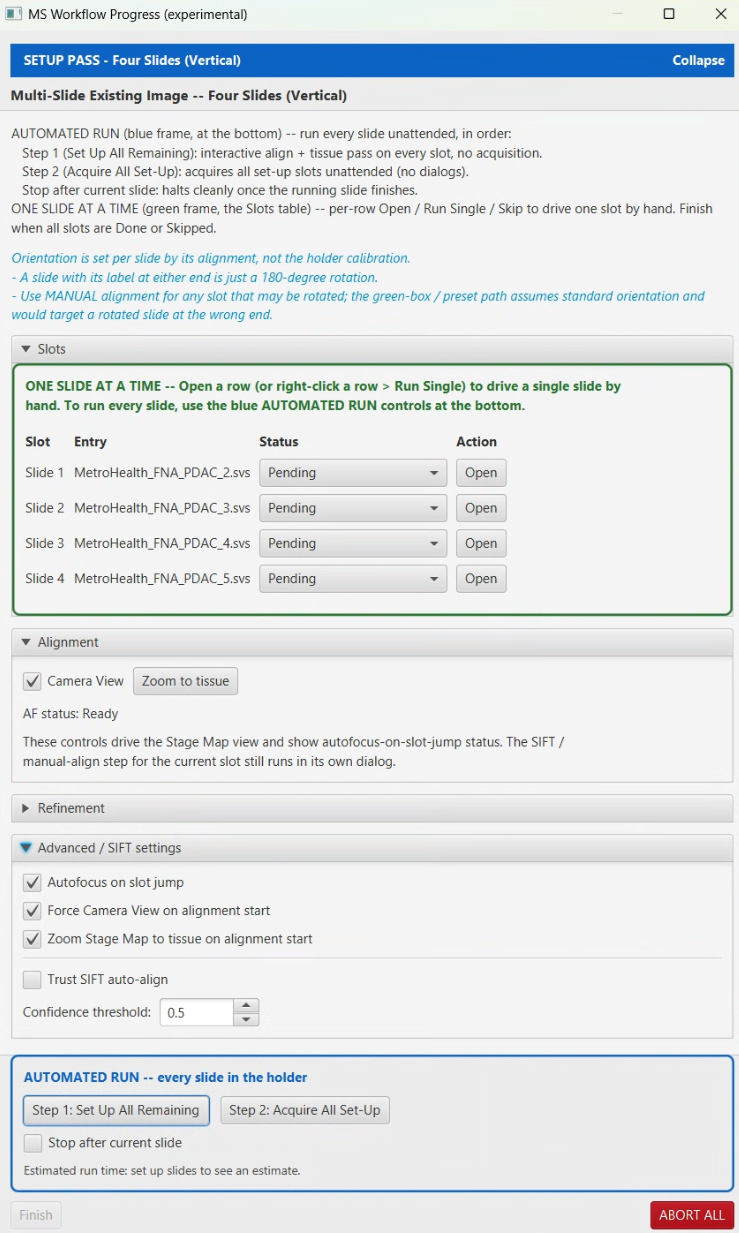
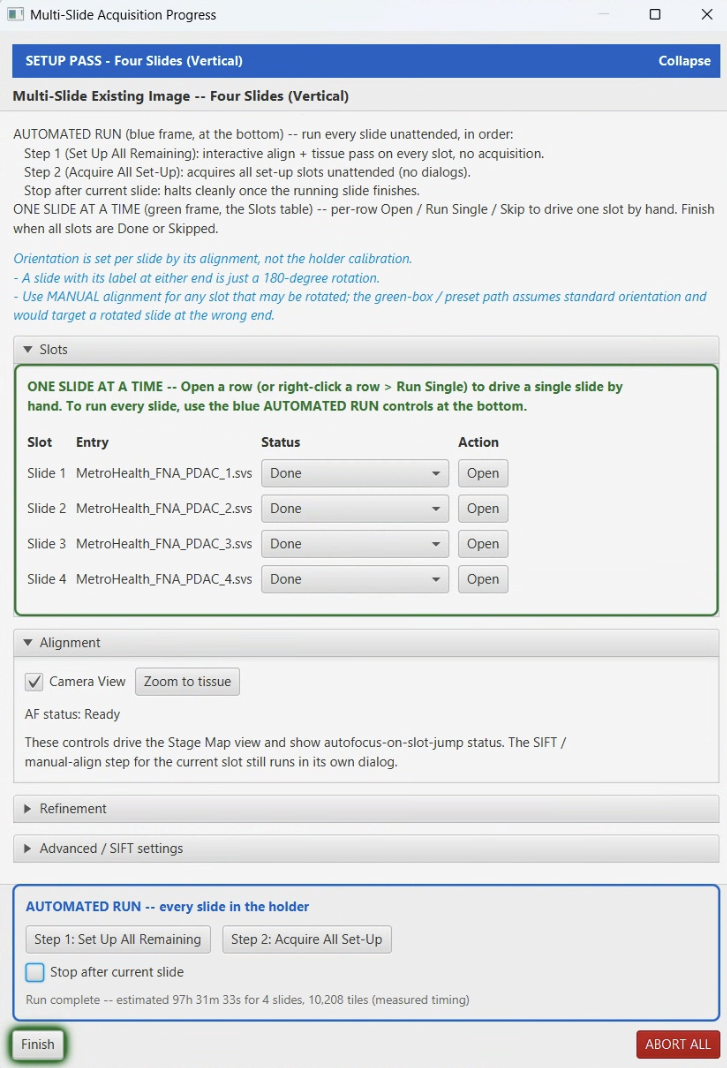
docs(images): add the saturation summary figure, re-capture the batch panel
Docs_SaturationSummary.png was listed as a missing screenshot in the
registry; it now exists, from a real 7-acquisition multi-slide run with 3
flagged samples. Documented in multi-slide-acquisition.md under Finishing,
with how to read it: the run-wide banner, worst-first ordering, and the
distinction the Role column draws -- "Low signal" means saturation on an
image the modality expected to be dim (a real defect), while tiles that are
bright because the modality expects them bright are counted separately in
the collapsed "Expected bright tiles" row. Worst % is verified against the
server: percentage of pixels at or above the dtype-aware saturation
threshold (250 for uint8, 64000 for uint16), worst channel of that tile.

Docs_MultiSlide_BatchPanel.png is re-captured at the end of a run (all four
slots Done, Finish enabled, measured run estimate). The previous figure's
title bar still read "MS Workflow Progress (experimental)"; the stage title
has since become "Multi-Slide Acquisition Progress", so the old figure was
user-visibly stale.

Claude-Session: https://claude.ai/code/session_01RGGpEUhYNeo6kpExXM8tGC

Changed region(s): [[0.0, 0.0, 0.9986, 1.0]]

diff --git a/documentation/tools/multi-slide-acquisition.md b/documentation/tools/multi-slide-acquisition.md
@@ -16,7 +16,7 @@ slides once and then let the run proceed on its own.
 
 ![Multi-slide carrier assignment dialog](../images/Docs_MultiSlide_Assignment.png)
 
-![Multi-slide batch progress panel](../images/Docs_MultiSlide_BatchPanel.png)
+![Multi-slide batch progress panel at the end of a run: all four slots Done, with the measured run estimate](../images/Docs_MultiSlide_BatchPanel.png)
 
 > **Dialogs you will see.** Two are specific to this workflow -- the **carrier /
 > slot assignment** dialog and the **batch progress panel** (above). The rest
@@ -331,6 +331,35 @@ Progress** / **Set up** if a run is cancelled at a gate or hits a handled error
 (so you can retry or mark it Skipped). Once every slot is **Done** or
 **Skipped**, click **Finish**. A combined saturation summary is shown if any
 tiles had concerning saturation during the run.
+
+![Saturation summary for a multi-slide run: three flagged acquisitions expanded worst-first, clean ones collapsed](../images/Docs_SaturationSummary.png)
+
+The summary covers the **whole run**, not one slide. The red banner names every
+acquisition that had concerning saturation, worst-first; below it each
+acquisition gets its own section, expanded for the flagged ones and collapsed
+for the clean ones (here, three of seven). Within a section the tiles are sorted
+by **Worst %** descending, so the first row is the worst tile in that
+acquisition.
+
+Two things are worth reading carefully:
+
+- **The Role column separates "concerning" from "normal".** A `Low signal` row
+  means saturation turned up on an image the microscope expected to be *dim* --
+  on PPM, the low-transmission angles -- which is where saturation actually
+  indicates a defect. Tiles that are bright because the modality expects them to
+  be bright are counted separately in the collapsed **Expected bright tiles**
+  row (1105 of them in the top acquisition), and are not a problem.
+- **Double-click any row to drive the stage to that tile** and look at it. This
+  needs a live microscope connection; the Stage X / Stage Y columns are the
+  coordinates it will move to.
+
+**Worst %** is the percentage of pixels at or above the sensor's saturation
+threshold (250 for 8-bit, 64000 for 16-bit data), taken from the worst single
+channel of that tile. A few percent on a handful of tiles is common; the banner
+exists to make a *systematic* exposure problem obvious. Sustained high values
+mean the sample exposure or illumination should come down -- see
+[AUTOFOCUS.md](../AUTOFOCUS.md) for why saturation also degrades focus, and why
+the automatic exposure reduction there is a stopgap rather than a fix.
 
 After the run finishes, if the microscope configuration declares a safe Z for the
 insert/modality combination used in this run, a **Safe-Z Clearance** notification

diff --git a/documentation/images/IMAGE_REGISTRY.md b/documentation/images/IMAGE_REGISTRY.md
@@ -46,7 +46,8 @@ This file tracks the relationship between documentation screenshots and the Java
 | `Docs_mainmenu.png` | `SetupScope.java` | 2026-08-22 | OK -- re-captured after the Light Path Orientation / Migrate Flipped Duplicates menu additions |
 | `Docs_ppmmenu.png` | `SetupScope.java` (PPM modality submenu) | -- | CHECK |
 | `Docs_MultiSlide_Assignment.png` | `ui/MultiSlideAssignmentDialog.java` | 2026-07-23 | OK |
-| `Docs_MultiSlide_BatchPanel.png` | `controller/MultiSlideExistingImageWorkflow.java` | 2026-07-23 | OK |
+| `Docs_MultiSlide_BatchPanel.png` | `controller/MultiSlideExistingImageWorkflow.java` | 2026-09-19 | OK -- re-captured at the END of a run (all four slots Done, Finish enabled, measured run estimate shown). Supersedes the 2026-07-23 figure, whose title bar still read "MS Workflow Progress (experimental)" before the rename to "Multi-Slide Acquisition Progress". The Advanced / SIFT settings pane is collapsed here; it was expanded in the old figure |
+| `Docs_SaturationSummary.png` | `ui/SaturationSummaryDialog.java` | 2026-09-19 | OK -- multi-slide run (7 acquisitions); 3 flagged samples expanded worst-first, clean ones collapsed, and the collapsed "Expected bright tiles" row that separates modality-normal brightness from concerning saturation |
 | `Docs_MultiSlide_StageMap.png` | `ui/stagemap/StageMapWindow.java`, `ui/stagemap/StageMapCanvas.java` (four-slide vertical carrier) | 2026-08-22 | OK -- re-captured; also used in stage-map.md as the multi-slot counterpart to the single-slide figure |
 
 ## Missing Screenshots (UI exists but no image)
@@ -55,7 +56,6 @@ This file tracks the relationship between documentation screenshots and the Java
 |-------------|------------|-------------------|
 | Hardware Error Recovery Dialog | `controller/workflow/AcquisitionManager.java` | `Docs_HardwareErrorDialog.png` |
 | Alignment Quality Summary | `controller/MicroscopeAlignmentWorkflow.java` | `Docs_AlignmentQualitySummary.png` |
-| Saturation Summary Dialog | `ui/SaturationSummaryDialog.java` | `Docs_SaturationSummary.png` |
 | Autofocus Validation Result | `controller/AutofocusEditorWorkflow.java` | `Docs_AutofocusValidation.png` |
 | Setup Wizard | `ui/setupwizard/SetupWizardDialog.java` | `Docs_SetupWizard.png` |
 | Alignment Refinement with SIFT | `controller/workflow/SingleTileRefinement.java` | `Docs_AlignmentRefinementSIFT.png` |
